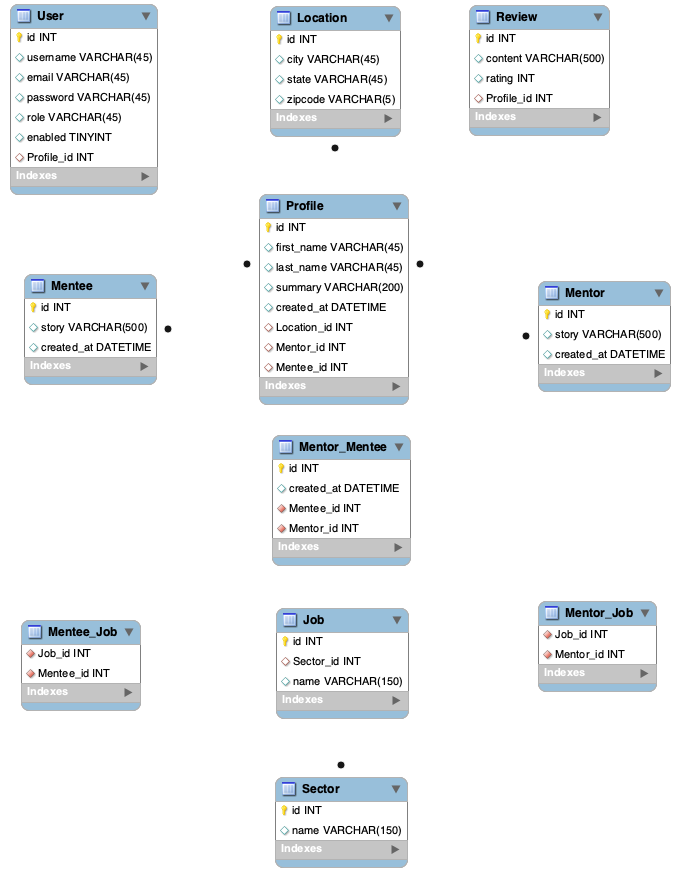
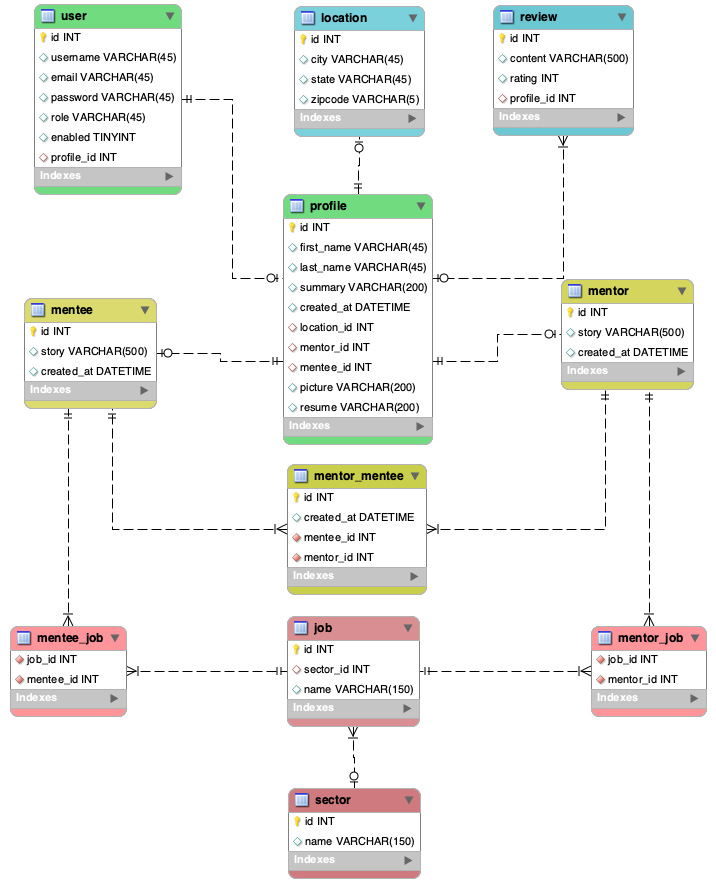
edit database table names

diff --git a/VETdJPA/src/main/java/com/skilldistillery/vetd/entities/Profile.java b/VETdJPA/src/main/java/com/skilldistillery/vetd/entities/Profile.java
@@ -40,7 +40,7 @@ public class Profile {
 	@OneToOne(cascade = CascadeType.ALL)
 	@JoinColumn(name = "mentee_id")
 	private Mentee mentee;
-	private String pic;
+	private String picture;
 	private String resume;
 	
 	
@@ -64,10 +64,10 @@ public class Profile {
 		this.mentee = mentee;
 	}
 	public String getPic() {
-		return pic;
+		return picture;
 	}
 	public void setPic(String pic) {
-		this.pic = pic;
+		this.picture = pic;
 	}
 	public String getResume() {
 		return resume;
